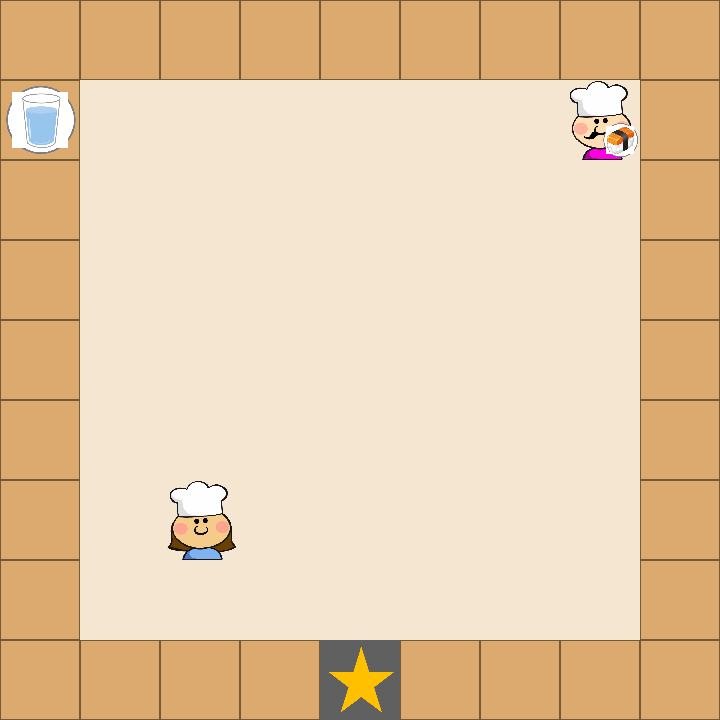
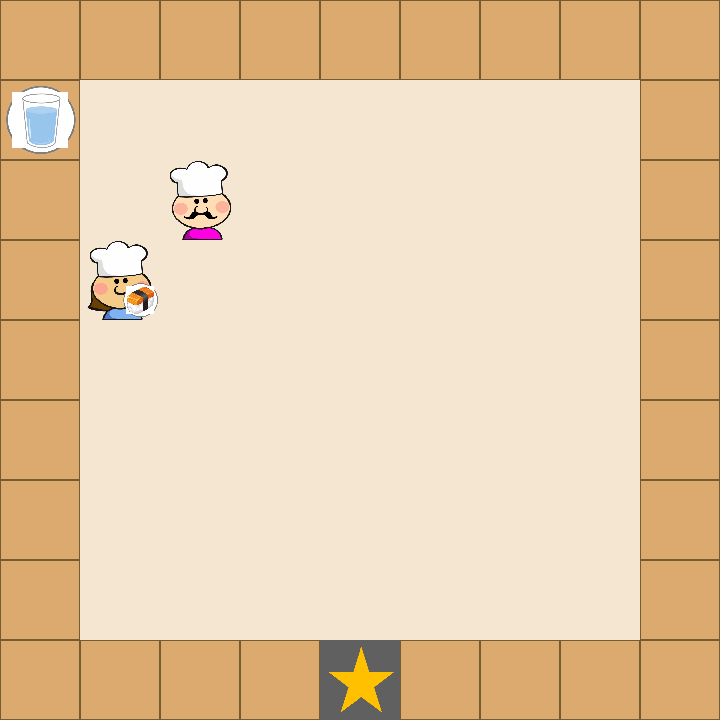
SimpleAgent completed

diff --git a/gym_cooking/utils/agent.py b/gym_cooking/utils/agent.py
@@ -861,48 +861,6 @@ class SimpleAgent:
     A hybrid agent that starts with simple fetching behavior but converts to a RealAgent
     when the FetchingAgent in the environment moves.
     """
-    def initialize_mock_delegator(self):
-        """Initialize a mock delegator for metrics tracking in SIMPLE mode."""
-        class MockDelegator:
-            def __init__(self, agent_name):
-                self.probs = self
-                self.agent_name = agent_name
-                
-            def get_list(self):
-                return []  # No probabilities to report
-                
-            def select_subtask(self, agent_name):
-                return None, []
-                
-            def should_reset_priors(self, obs, incomplete_subtasks):
-                return False
-                
-            def set_priors(self, obs, incomplete_subtasks, priors_type):
-                pass
-                
-            def bayes_update(self, obs_tm1, actions_tm1, beta):
-                pass
-                
-            def get_other_agent_planners(self, obs, backup_subtask):
-                return {}
-                
-        self.delegator = MockDelegator(self.name)
-        
-    def sync_attributes_from_real_agent(self):
-        """Copy metrics tracking attributes from real_agent to this agent."""
-        if self.real_agent is None:
-            return
-            
-        # Copy all relevant attributes for metrics tracking
-        self.subtask = self.real_agent.subtask
-        self.new_subtask = self.real_agent.new_subtask
-        self.subtask_agent_names = self.real_agent.subtask_agent_names
-        self.new_subtask_agent_names = self.real_agent.new_subtask_agent_names
-        self.incomplete_subtasks = self.real_agent.incomplete_subtasks
-        self.subtask_complete = getattr(self.real_agent, 'subtask_complete', False)
-        self.is_subtask_complete = self.real_agent.is_subtask_complete
-        self.delegator = self.real_agent.delegator
-
     def __init__(self, arglist, name, id_color, recipes):
         self.arglist = arglist
         self.name = name
@@ -974,18 +932,8 @@ class SimpleAgent:
         self.holding = sim_agent.holding
         self.action = sim_agent.action
 
-        # print(previous_holding)
-        # print(self.holding)
-
-        # Initialize delegator if needed for metrics tracking
-        if self.delegator is None:
-            self.initialize_mock_delegator()
-
         # Find the other agent (assume it's the fetching agent)
-        fetching_agent = next((a for a in obs.sim_agents if a.name != self.name), None)
-
-        
-        
+        fetching_agent = next((a for a in obs.sim_agents if a.name != self.name), None)        
 
         # Check if we should switch to RealAgent mode based on multiple conditions
         if self.mode == "SIMPLE":
@@ -994,14 +942,14 @@ class SimpleAgent:
                 # Store the other agent's location if this is the first observation
                 if self.fetching_agent_prev_location is None:
                     self.fetching_agent_prev_location = fetching_agent.location
-        return self.simple_mode_action(obs)
+        return self.simple_mode_action(obs, fetching_agent.location)
         
-    def simple_mode_action(self, obs):
+    def simple_mode_action(self, obs, fetching_agent_location):
         """Determine action in SIMPLE mode - go for target item."""
         # If already holding the target, just stay in place
         if self.holding is not None:
             # print(f"{self.name} already holding {self.get_holding()}, waiting for mode switch")
-            return (0, 0)
+            self.target_item = "Delivery"
 
         # Find locations of the target item
         target_locations = []
@@ -1016,6 +964,9 @@ class SimpleAgent:
                         if hasattr(obj, 'location') and obj.location:
                             target_locations.append(obj.location)
                             # print(f"Found {self.target_item} at {obj.location}")
+            target_locations.append(fetching_agent_location)
+
+
         except Exception as e:
             print(f"Error finding target locations: {e}")
 
@@ -1023,7 +974,7 @@ class SimpleAgent:
         walkable_grid = self.get_walkable_grid(obs)
 
         # Make sure target locations are walkable for pathfinding
-        for loc in target_locations:
+        for loc in target_locations[:1]:
             walkable_grid[loc] = True
 
         # Find best target and path
@@ -1031,7 +982,10 @@ class SimpleAgent:
         best_approach = None
         best_path_length = float('inf')
 
+
         for loc in target_locations:
+            if best_target:
+                break
             # If we can interact directly with the object
             if self.is_adjacent(self.location, loc):
                 best_target = loc
@@ -1047,6 +1001,7 @@ class SimpleAgent:
                         best_path_length = path_length
                         best_target = loc
                         best_approach = adjacent
+        print(best_target)
 
         # If no path found to any target, use basic navigation as fallback
         if best_target is None:

diff --git a/gym_cooking/envs/overcooked_environment.py b/gym_cooking/envs/overcooked_environment.py
@@ -205,8 +205,12 @@ class OvercookedEnvironment(gym.Env):
         for sim_agent in self.sim_agents:
             sim_agent.action = action_dict[sim_agent.name]
 
+        print(self.sim_agents[0].action)
+        print(self.sim_agents[1].action)
         # Check collisions.
         self.check_collisions()
+        print(self.sim_agents[0].action)
+        print(self.sim_agents[1].action)
         self.obs_tm1 = copy.copy(self)
 
         # Execute.
@@ -422,10 +426,12 @@ class OvercookedEnvironment(gym.Env):
             
             # SPECIAL CASE: Allow moving toward another agent if a handoff is possible
             # (agent is holding something, other agent has empty hands)
+            
             if (agent_i.holding is not None and agent_j.holding is None and 
                 self.is_adjacent(agent_i.location, agent_j.location) and
                 agent_i.action == self.get_direction_to(agent_i.location, agent_j.location)):
                 # Skip collision detection to allow the handoff
+                agent_j.action = (0,0)
                 continue
 
             if (agent_j.holding is not None and agent_i.holding is None and 
@@ -455,7 +461,7 @@ class OvercookedEnvironment(gym.Env):
                         agent_locations=[agent_i.location, agent_j.location])
                 self.collisions.append(collision)
 
-        # print('\nexecute array is:', execute)
+            # print('\nexecute array is:', execute)
 
         # Update agents' actions if collision was detected.
         for i, agent in enumerate(self.sim_agents):

diff --git a/gym_cooking/DQN/fetcher_dqn.py b/gym_cooking/DQN/fetcher_dqn.py
@@ -7,7 +7,7 @@ import numpy as np
 import matplotlib.pyplot as plt
 import gym
 from gym import spaces
-from utils.agent import RealAgent, SimAgent, COLORS, FetchingAgent, HybridAgent, DQNFetchingAgent
+from utils.agent import RealAgent, SimAgent, COLORS, FetchingAgent, HybridAgent, DQNFetchingAgent, SimpleAgent
 from recipe_planner.recipe import *
 from tqdm import tqdm
 import re
@@ -100,7 +100,7 @@ class DQNTrainer:
                     if count == 1:
                         # MAKE AGENT 2 A "HUMAN"
                         # print(f'Initializing HybridAgent {len(real_agents)+1} at location ({loc[0]}, {loc[1]})')
-                        real_agent = HybridAgent(
+                        real_agent = SimpleAgent(
                             arglist=self.arglist,
                             name='agent-'+str(len(real_agents)+1),
                             id_color=COLORS[len(real_agents)],

diff --git a/gym_cooking/misc/game/gameplay.py b/gym_cooking/misc/game/gameplay.py
@@ -78,7 +78,6 @@ class GamePlay(Game):
                     action = self.agents[1].select_action(self.state)
                     self.current_agent.action = action
 
-
                     action_dict[self.current_agent.name] = action
 
                     
